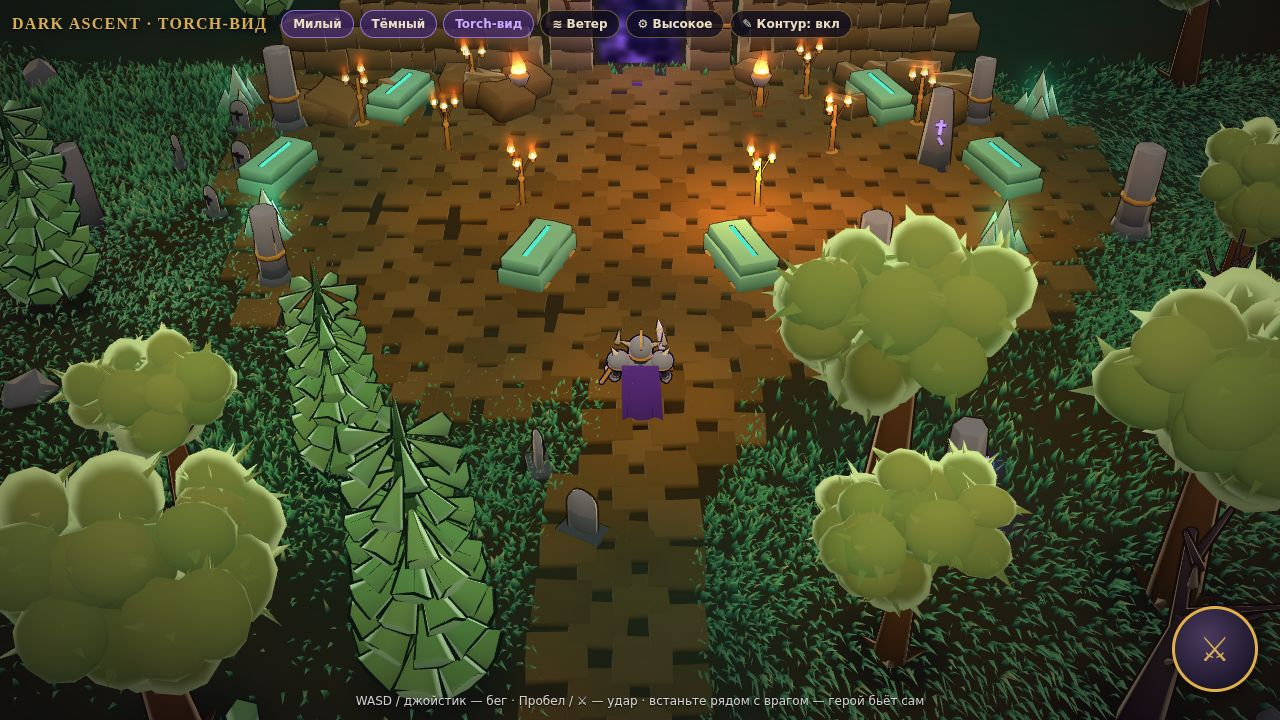
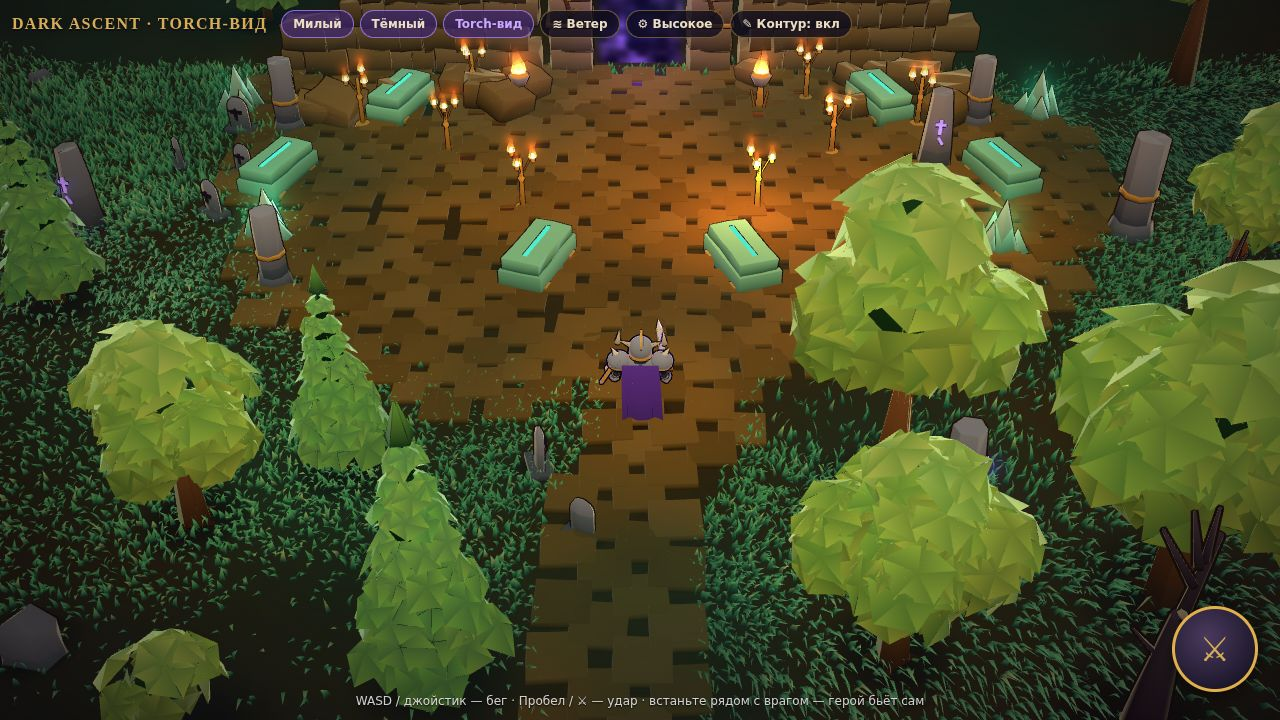
Torch look: faceted leaf-plate trees and pines, slower longer gait
Claude-Session: https://claude.ai/code/session_01MQCVpSgrSxb7Tpf8i263fP

diff --git a/lab/three/js/dark/world.js b/lab/three/js/dark/world.js
@@ -302,43 +302,74 @@ export function buildWorld(scene, look = 'dark') {
       shadowSpots.push({ x: t.x, z: t.z, r: 1.4 * s });
     }
     if (TORCH) {
-      // stylised-realistic fluffy foliage: the crown is a cloud of ~36 lumpy leaf clumps, light on top and dark inside, normals pulled to the crown centre
-      const crownMat = toon(0xffffff, { vc: true, rim: 0.55, rimColor: 0xe8ffb0, fade: true, sway: { base: 1.3, amt: 0.03, flutter: 0.045 } });
-            const trunkMat = toon(0xffffff, { vc: true, rim: 0.4, rimColor: 0xffd8a0, fade: true, sway: { base: 0.8, amt: 0.012, flutter: 0 } });
-      const trunkOl = outline({ width: 0.03, color: 0x1c0f08, fade: true, sway: { base: 0.8, amt: 0.012, flutter: 0 } });
-      const cr = rng(5), blobs = [], C = new THREE.Vector3(0, 3.05, 0);
-      for (let i = 0; i < 28; i++) {
-        let x, y, z; do { x = (cr() - .5) * 2.6; y = (cr() - .5) * 2.0; z = (cr() - .5) * 2.6; } while ((x * x) / 1.69 + (y * y) / 1.0 + (z * z) / 1.69 > 1);
-        const d = Math.hypot(x / 1.3, y, z / 1.3), up = y / 1.0, r = 0.52 - d * 0.14 + cr() * 0.14;
-        const hue = new THREE.Color().setHSL(0.3 + (cr() - .5) * 0.06, 0.5, 0.1 + 0.12 * (up * 0.5 + 0.5) + d * 0.04), tip = new THREE.Color().setHSL(0.22 + cr() * 0.05, 0.6, 0.3 + 0.1 * up);
-        blobs.push(part(new THREE.IcosahedronGeometry(r, 1), hue, [x, C.y + y, z], [cr() * 3, cr() * 3, 0], [1, 0.78 + cr() * 0.2, 1], { top: tip, y0: C.y + y - r * 0.6, y1: C.y + y + r }));
-        for (let k = 0; k < 5; k++) {        // leaf spikes: a fuzzy, frond-like edge on every clump
-          const dv = new THREE.Vector3(cr() - .5, cr() - .35, cr() - .5).normalize(), q = new THREE.Quaternion().setFromUnitVectors(new THREE.Vector3(0, 1, 0), dv);
-          const g = new THREE.ConeGeometry(0.08, 0.3, 3); g.translate(0, 0.12, 0); g.applyQuaternion(q); g.translate(x + dv.x * r * 0.92, C.y + y + dv.y * r * 0.8, z + dv.z * r * 0.92);
-          blobs.push(paint(g, hue.clone().multiplyScalar(1.15), { top: tip.clone().offsetHSL(0, 0, 0.06), y0: C.y + y - r, y1: C.y + y + r + 0.3 }));
+      // stylised low-poly foliage: crowns are layered faceted leaf plates (each a lifted pentagon, so every plate catches light differently)
+      const cr = rng(5), V = (x, y, z) => new THREE.Vector3(x, y, z), UPV = V(0, 1, 0), Zax = V(0, 0, 1);
+      const acc = { P: [], N: [], C: [] };
+      const plate = (c, dir, size, base, tip) => {
+        const g = new THREE.CircleGeometry(1, 5), p = g.attributes.position, f = [0, 1, 2, 3, 4].map(() => 0.78 + cr() * 0.45);
+        p.setZ(0, 0.3);
+        for (let i = 1; i < p.count; i++) { const k = f[(i - 1) % 5]; p.setX(i, p.getX(i) * k); p.setY(i, p.getY(i) * k); p.setZ(i, (cr() - .5) * 0.08); }
+        g.scale(size, size * (0.75 + cr() * 0.3), size); g.rotateZ(cr() * 6.283);
+        g.applyQuaternion(new THREE.Quaternion().setFromUnitVectors(Zax, dir)); g.translate(c.x, c.y, c.z);
+        const ng = g.toNonIndexed(); ng.computeVertexNormals();
+        const pp = ng.attributes.position, nn = ng.attributes.normal;
+        for (let i = 0; i < pp.count; i++) {
+          const n = V(nn.getX(i), nn.getY(i), nn.getZ(i)).multiplyScalar(0.6).addScaledVector(dir, 0.4).normalize(), col = i % 3 === 0 ? tip : base.clone().lerp(tip, 0.25);
+          acc.P.push(pp.getX(i), pp.getY(i), pp.getZ(i)); acc.N.push(n.x, n.y, n.z); acc.C.push(col.r, col.g, col.b, 1);
         }
-      }
-      const crown = merge(blobs); spherify(crown, C, 0.55);
-      const T = [part(new THREE.CylinderGeometry(0.15, 0.3, 2.3, 8, 3), 0x3a2616, [0, 1.15, 0], [0, 0, 0.04], 1, { top: 0x6a4a2c }), part(new THREE.CylinderGeometry(0.06, 0.13, 1.1, 6), 0x4a3220, [0.38, 2.45, 0], [0, 0, -0.75], 1, { top: 0x6a4a2c }),
-                 part(new THREE.CylinderGeometry(0.06, 0.12, 1.0, 6), 0x4a3220, [-0.33, 2.4, 0.1], [0.2, 0, 0.7], 1, { top: 0x6a4a2c })];
-      for (let a = 0; a < 4; a++) T.push(part(new THREE.ConeGeometry(0.16, 0.7, 5), 0x3a2616, [Math.cos(a * 1.57 + 0.4) * 0.28, 0.12, Math.sin(a * 1.57 + 0.4) * 0.28], [Math.sin(a * 1.57 + 0.4) * 0.9, 0, -Math.cos(a * 1.57 + 0.4) * 0.9]));   // root flare
-      const trunk = merge(T);
-      // pines: a core cone plus rings of drooping boughs
-      const P = [part(new THREE.CylinderGeometry(0.09, 0.2, 1.3, 6), 0x34221a, [0, 0.65, 0])];
-      for (let tier = 0; tier < 7; tier++) {
-        const y = 0.9 + tier * 0.55, rad = 0.95 - tier * 0.11, n = 8 - (tier > 4 ? 2 : 0);
-        for (let k = 0; k < n; k++) {
-          const a = k / n * 6.283 + tier * 0.5, g = new THREE.ConeGeometry(0.3 - tier * 0.025, 1.0 - tier * 0.06, 5);
-          g.translate(0, -0.5, 0); g.rotateZ(-1.15); g.rotateY(-a);      // tip points outward and down
-          P.push(paint(place(g, [Math.cos(a) * 0.12, y + 0.18, Math.sin(a) * 0.12], 0, [1, 1, 1.1]), new THREE.Color().setHSL(0.4 + cr() * 0.03, 0.5, 0.13 + tier * 0.012), { top: new THREE.Color().setHSL(0.3 + cr() * 0.04, 0.55, 0.36 + tier * 0.03), y0: y - rad * 0.8, y1: y + 0.3 }));
+      };
+      const raw = g => { const ng = g.index ? g.toNonIndexed() : g; ng.computeVertexNormals(); const pp = ng.attributes.position, nn = ng.attributes.normal, cc = ng.attributes.color;
+        for (let i = 0; i < pp.count; i++) { acc.P.push(pp.getX(i), pp.getY(i), pp.getZ(i)); acc.N.push(nn.getX(i), nn.getY(i), nn.getZ(i)); acc.C.push(cc.getX(i), cc.getY(i), cc.getZ(i), 1); } };
+      const limb = (a, b, r0, r1, c0, c1) => { const d = b.clone().sub(a), L = d.length(), g = new THREE.CylinderGeometry(r1, r0, L, 6); g.translate(0, L / 2, 0);
+        g.applyQuaternion(new THREE.Quaternion().setFromUnitVectors(UPV, d.clone().normalize())); g.translate(a.x, a.y, a.z); raw(paint(g, c0, { top: c1, y0: Math.min(a.y, b.y), y1: Math.max(a.y, b.y) })); };
+      const lobeSet = (lobes, y0, y1, density = 42) => {
+        for (const [x, y, z, r] of lobes) {
+          const c = V(x, y, z);
+          raw(paint(new THREE.IcosahedronGeometry(r * 0.8, 0), 0x12301c, { top: 0x1f4a26 }).translate(x, y, z));                      // dark core fills gaps between plates
+          const n = Math.round(density * r * r + 10);
+          for (let i = 0; i < n; i++) {
+            const d = V(cr() - .5, cr() - .42, cr() - .5).normalize(), pos = c.clone().addScaledVector(d, r * (0.8 + cr() * 0.28)), hgt = clamp01((pos.y - y0) / (y1 - y0));
+            const base = new THREE.Color().setHSL(0.29 + (cr() - .5) * 0.05, 0.66, 0.13 + 0.17 * hgt + (d.y < 0 ? -0.05 : 0)), tip = new THREE.Color().setHSL(0.24 + (cr() - .5) * 0.05, 0.74, 0.31 + 0.2 * hgt + d.y * 0.08);
+            plate(pos, d.clone().multiplyScalar(0.8).addScaledVector(UPV, 0.35 + cr() * 0.25).add(V(cr() - .5, 0, cr() - .5).multiplyScalar(0.5)).normalize(), 0.3 + r * 0.26 * (0.6 + cr() * 0.7), base, tip);
+          }
         }
-        P.push(part(new THREE.ConeGeometry(0.42 - tier * 0.05, 0.9, 6), 0x1a3a2a, [0, y + 0.25, 0], 0, 1, { top: 0x4a8a56, y0: y - 0.2, y1: y + 0.7 }));
-      }
-      const pineG = merge(P);
-      const pineMat = toon(0xffffff, { vc: true, rim: 0.5, rimColor: 0xd8ffc8, fade: true, sway: { base: 0.8, amt: 0.02, flutter: 0.022 } });
-      const pineOl = outline({ width: 0.03, color: 0x0c1810, fade: true, sway: { base: 0.8, amt: 0.02, flutter: 0.022 } });
-      instanced(trunk, trunkMat, broad, trunkOl); instanced(crown, crownMat, broad); instanced(pineG, pineMat, pines.map(p => ({ ...p, s: p.s * 1.15 })), pineOl); instanced(deadTree(), treeMat, dead, treeOl);
-      fadeMats.push(treeMat, crownMat, trunkMat, pineMat);
+      };
+      const clamp01 = x => Math.min(1, Math.max(0, x));
+      const finish = () => { const g = new THREE.BufferGeometry(); g.setAttribute('position', new THREE.Float32BufferAttribute(acc.P, 3)); g.setAttribute('normal', new THREE.Float32BufferAttribute(acc.N, 3)); g.setAttribute('color', new THREE.Float32BufferAttribute(acc.C, 4)); g.computeBoundingSphere(); acc.P = []; acc.N = []; acc.C = []; return g; };
+      const BARK = 0x3a2416, BARK_L = 0x8a5a34;
+      const broadTree = (lobes, trunkH, bend) => {
+        limb(V(0, 0, 0), V(bend, trunkH, 0), 0.3, 0.14, BARK, BARK_L);
+        for (let a = 0; a < 4; a++) limb(V(Math.cos(a * 1.7) * 0.1, 0.05, Math.sin(a * 1.7) * 0.1), V(Math.cos(a * 1.7) * 0.5, -0.02, Math.sin(a * 1.7) * 0.5), 0.14, 0.04, BARK, BARK);     // root flare
+        for (const [x, y, z] of lobes) limb(V(bend, trunkH * 0.85, 0), V(x * 0.7, y - 0.2, z * 0.7), 0.1, 0.045, BARK, BARK_L);
+        lobeSet(lobes, 1.6, 4.6, 46);
+        return finish();
+      };
+      const treeA = broadTree([[0, 3.1, 0, 1.0], [0.95, 2.65, 0.2, 0.72], [-0.9, 2.75, -0.2, 0.78], [0.2, 2.55, 0.95, 0.66], [-0.1, 3.75, 0.1, 0.72], [0.3, 2.7, -0.85, 0.66]], 2.2, 0.08);
+      const treeB = broadTree([[0, 3.3, 0, 0.9], [0.1, 4.15, 0, 0.7], [0.75, 2.85, 0.1, 0.62], [-0.75, 3.0, 0.2, 0.62], [-0.1, 2.6, 0.7, 0.55]], 2.0, -0.05);
+      const small = (() => { limb(V(0, 0, 0), V(0.03, 1.15, 0), 0.1, 0.05, BARK, BARK_L); lobeSet([[0, 1.75, 0, 0.62]], 1.0, 2.5, 40); return finish(); })();
+      // pines: tiers of drooping leaf plates around a trunk, bright tips on top of each tier
+      const pineG = (() => {
+        limb(V(0, 0, 0), V(0, 1.4, 0), 0.16, 0.08, BARK, BARK_L);
+        for (let t = 0; t < 8; t++) {
+          const y = 0.95 + t * 0.46, R = 1.0 - t * 0.115, n = 11 - Math.floor(t * 0.7);
+          raw(paint(new THREE.ConeGeometry(R * 0.72, 0.8, 6), 0x0f2a1c, { top: 0x1d4a30 }).translate(0, y + 0.1, 0));
+          for (let k = 0; k < n; k++) {
+            const a = k / n * 6.283 + t * 0.7 + (cr() - .5) * 0.3, out = V(Math.cos(a), 0, Math.sin(a)), pos = out.clone().multiplyScalar(R * (0.62 + cr() * 0.3)).add(V(0, y + (cr() - .5) * 0.12, 0));
+            const base = new THREE.Color().setHSL(0.36 + cr() * 0.03, 0.55, 0.14 + t * 0.012), tip = new THREE.Color().setHSL(0.27 + cr() * 0.04, 0.7, 0.34 + t * 0.025);
+            plate(pos, out.clone().multiplyScalar(0.62).addScaledVector(UPV, 0.62).add(V(cr() - .5, 0, cr() - .5).multiplyScalar(0.25)).normalize(), 0.42 - t * 0.03, base, tip);
+          }
+        }
+        raw(paint(new THREE.ConeGeometry(0.2, 0.6, 5), 0x1d4a30, { top: 0x7ac45a }).translate(0, 4.75, 0));
+        return finish();
+      })();
+      const treeMatF = toon(0xffffff, { vc: true, side: THREE.DoubleSide, rim: 0.5, rimColor: 0xe8ffb0, fade: true, sway: { base: 1.4, amt: 0.026, flutter: 0.035 } });
+      const pineMatF = toon(0xffffff, { vc: true, side: THREE.DoubleSide, rim: 0.5, rimColor: 0xd8ffc8, fade: true, sway: { base: 1.0, amt: 0.02, flutter: 0.022 } });
+      const A = [], B = [], S = [];
+      broad.forEach((t, i) => (i % 5 === 4 ? S : i % 2 ? B : A).push(i % 5 === 4 ? { ...t, s: t.s * 0.75 } : t));
+      instanced(treeA, treeMatF, A); instanced(treeB, treeMatF, B); instanced(small, treeMatF, S);
+      instanced(pineG, pineMatF, pines.map(p => ({ ...p, s: p.s * 1.1 })));
+      instanced(deadTree(), treeMat, dead, treeOl);
+      fadeMats.push(treeMat, treeMatF, pineMatF);
     } else {
       instanced(deadTree(), treeMat, dead, treeOl); instanced(pine(), treeMat, pines, treeOl);
       fadeMats.push(treeMat);

diff --git a/lab/three/js/dark/hero.js b/lab/three/js/dark/hero.js
@@ -128,7 +128,7 @@ export class DarkHero {
   }
 
   update(dt, move, t) {
-    const SPEED = 5.0, ATK_T = 0.5;
+    const SPEED = 4.2, ATK_T = 0.5, ST = 0.42;
     const attacking = this.atk >= 0;
     const want = new THREE.Vector2(move.x, move.y).multiplyScalar(attacking ? SPEED * 0.3 : SPEED);
     this.vel.lerp(want, 1 - Math.exp(-14 * dt));
@@ -144,7 +144,8 @@ export class DarkHero {
     // ---- gait: phase advances with ground speed so feet never skate ----
     this.run += ((sp > 0.4 ? 1 : 0) - this.run) * (1 - Math.exp(-10 * dt));
     const r = this.run, spN = clamp(sp / SPEED);
-    if (sp > 0.25) this.phase = (this.phase + dt * sp / 1.55) % 1;
+    const stride = clamp(0.3 + 0.15 * sp, 0.3, 0.9);          // long strides, slow cadence: foot travel per stance = stride, so no skating
+    if (sp > 0.25) this.phase = (this.phase + dt * sp * ST / stride) % 1;
     const th = this.phase * Math.PI * 2, breath = Math.sin(t * 2.0) * (1 - r);
     this.aw += ((attacking ? 1 : 0) - this.aw) * (1 - Math.exp(-16 * dt));
     const aw = this.aw;
@@ -161,10 +162,10 @@ export class DarkHero {
     const wind = k1 * (1 - k2), hitK = k2 * (1 - k3), crouchA = 0.1 * (k1 * (1 - k2) + 0.7 * k2 * (1 - k3));
 
     // ---- pelvis + legs (IK) ----
-    const hipY = 0.97 - 0.06 * r + 0.03 * r * Math.abs(Math.cos(th - 1.885)) - crouchA * aw + breath * 0.008;
+    const hipY = 0.97 - 0.14 * r + 0.03 * r * Math.abs(Math.cos(th - 1.885)) - crouchA * aw + breath * 0.008;
     const legs = [[this.legR, 0], [this.legL, 0.5]];
     legs.forEach(([lg, off], i) => {
-      const ft = footTarget(this.phase + off, 0.2 + 0.38 * spN, 0.07 + 0.2 * spN);
+      const ft = footTarget(this.phase + off, stride, 0.08 + 0.16 * spN, ST);
       let dz = ft.z * r + (i ? -0.03 : 0.03) * (1 - r), lift = ft.y * r, toe = ft.pitch * r;
       // attack stance: sword-side foot steps forward, the other braces behind
       const front = (dir > 0) === (i === 0);

diff --git a/lab/three/js/dark/rig.js b/lab/three/js/dark/rig.js
@@ -7,9 +7,8 @@ export const easeIn = x => { x = clamp(x); return x * x * x; };
 export const lerp = (a, b, t) => a + (b - a) * t;
 
 // Foot target (forward offset z and lift y relative to the hip joint's vertical) for gait phase p in [0,1): 60% stance (foot slides back on the ground), 40% swing.
-export function footTarget(p, stride, lift) {
+export function footTarget(p, stride, lift, ST = 0.6) {
   p = ((p % 1) + 1) % 1;
-  const ST = 0.6;
   if (p < ST) { const k = p / ST; return { z: stride * (0.5 - k), y: 0, pitch: k > 0.8 ? (k - 0.8) / 0.2 * 0.55 : 0 }; }   // late stance: heel lifts, toe pushes off
   const k = (p - ST) / (1 - ST);
   return { z: stride * (-0.5 + smooth(k)), y: lift * Math.sin(Math.PI * k), pitch: 0.55 * (1 - smooth(k * 2.2)) - 0.3 * smooth((k - 0.7) / 0.3) };

diff --git a/lab/three/README.md b/lab/three/README.md
@@ -64,7 +64,7 @@ python3 -m http.server 8000
 - `js/dark/rig.js`: двухсегментный IK ног (колени гнутся в нужную сторону, стопа остаётся на земле), цикл шага с фазой от скорости (стопы не скользят), позы стопы (пятка, носок).
 - Герой: таз качается и скручивается, торс противовращается, наклон вперёд от скорости и в поворотах, руки с локтями. Удар из трёх фаз: широкий замах над головой, выпад с приседанием и разведёнными ногами, проводка. Щит страхует.
 - Скелет и упырь: те же колени и локти, замах всем корпусом.
-- Деревья: крона из ~28 неровных комков (светлая верхушка, тёмная глубина, нормали стянуты к центру) с листовыми пиками по краю и шелестом в шейдере; ёлки из ярусов повисших лап; ствол с корневыми наплывами.
+- Деревья: крона из слоёв гранёных листовых пластин (пятиугольники с приподнятым центром, у каждой своя грань света), ветви ведут в доли кроны; ёлки из ярусов тех же пластин; три вида лиственных (два размера и деревце). Бег: длинный шаг, ритм ≈ 1.9 цикла/с, стопа не скользит.
 - Бюджет: ≈ 220 draw calls и ≈ 340 тыс. треугольников. Основную часть draw calls дают раздельные части тела героя (28) и мобов (≈ 126 вместе) вместе с контурами. При переносе в игру персонажей стоит собрать в SkinnedMesh (1 вызов на персонажа), это вернёт бюджет к ≈ 100.
 
 ![деревья](screens/torch_03_trees.jpg)
